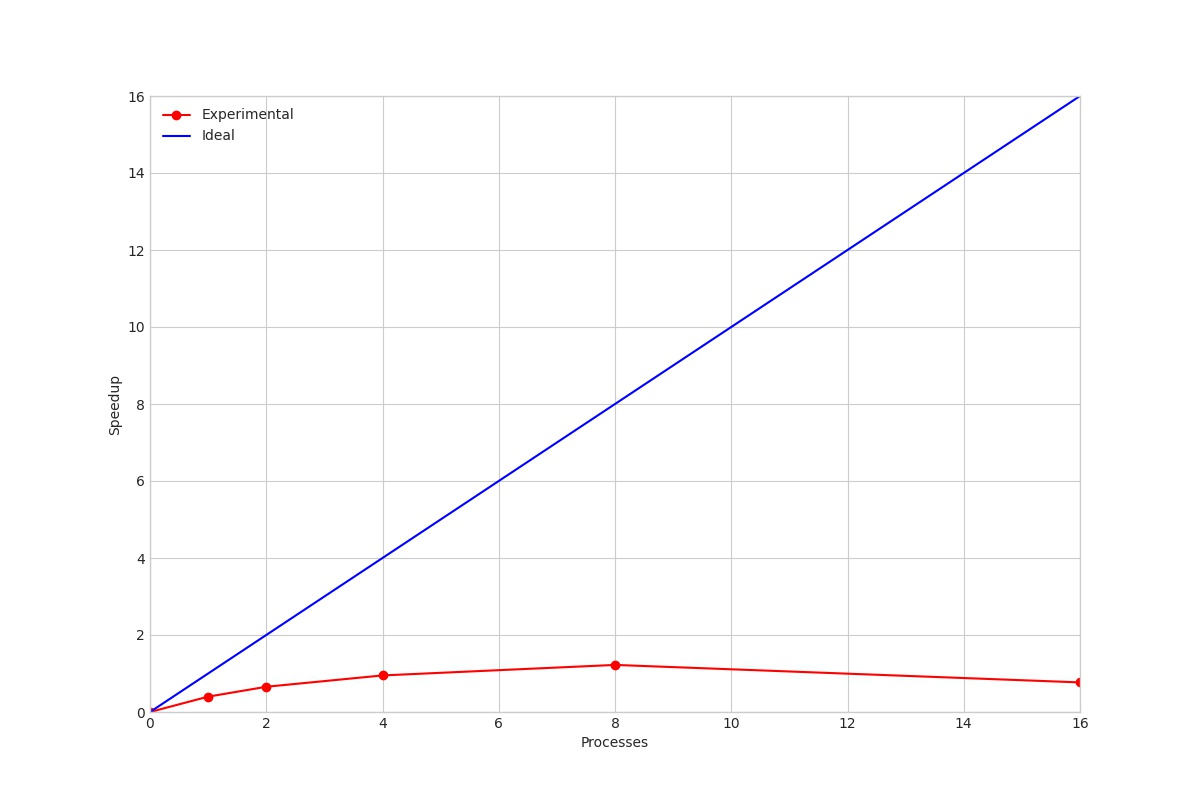
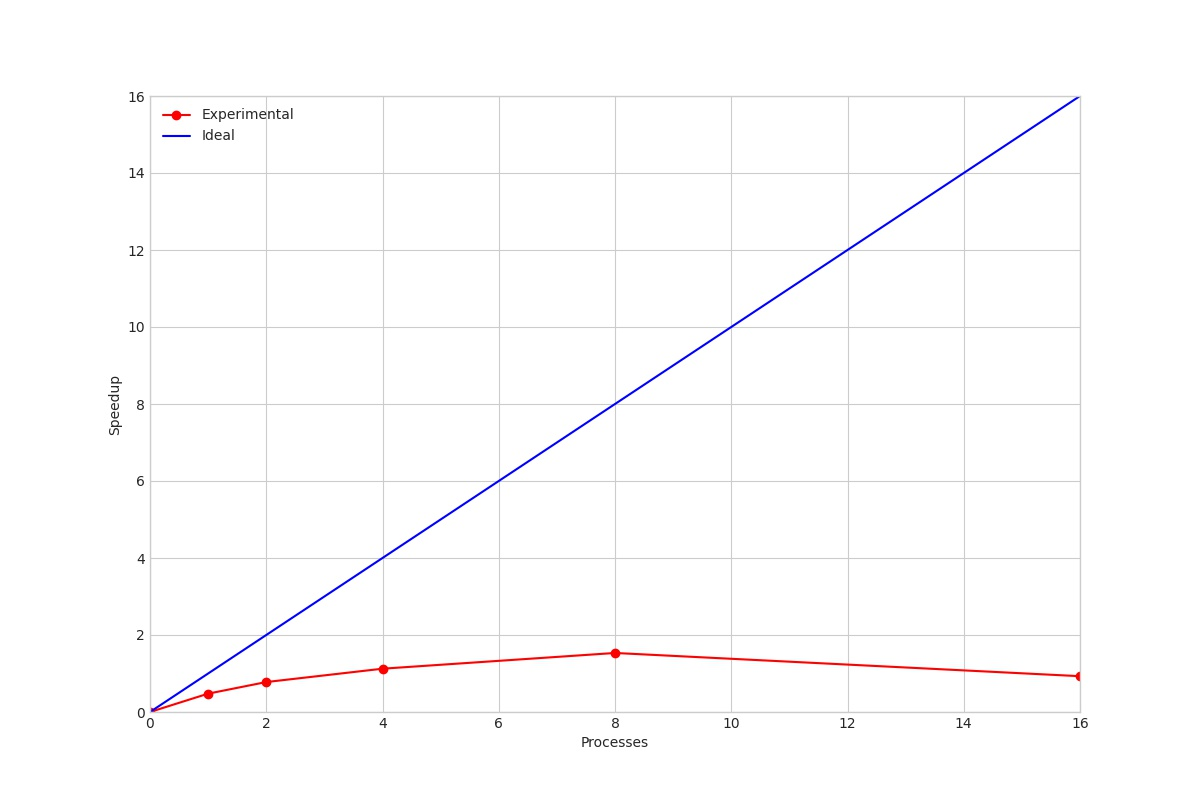
[EXTRACT] Seq has write and read now, Next measures no seq gcc opt

Changed region(s): [[0.1542, 0.8125, 0.8942, 0.875], [0.1233, 0.875, 0.1542, 0.9062]]

diff --git a/CommonAssignmentMPI01/src/main.c b/CommonAssignmentMPI01/src/main.c
@@ -121,6 +121,8 @@ int main ( int argc, char *argv[] ){
 
 	// --------------- DOT PROD ---------------
 
+	
+
 #if VERSION == 6
 	
 	double *c = (double*) malloc(sizeof(double) * chunk_size_A_rows);
@@ -145,13 +147,12 @@ int main ( int argc, char *argv[] ){
 			//ha chunk + grande
 		}
 	}
-	double dot_prod_end_time = MPI_Wtime();
 
 	MPI_Type_free(&dt_transpose_b);
 #else
 	double *c = (double*) malloc(sizeof(double) * chunk_size_A_rows * n_columns_B);
 
-	double dot_prod_start_time = MPI_Wtime();
+	double dot_prod_start_time = MPI_Wtime();	
 	matrix_dot_matrix(a, b, c, chunk_size_A_rows, n_columns_A, n_rows_B, n_columns_B);
 	double dot_prod_end_time = MPI_Wtime();
 
@@ -170,17 +171,20 @@ int main ( int argc, char *argv[] ){
 	
 	double read_time = read_end_time - read_start_time;
 	double dot_prod_time = dot_prod_end_time - dot_prod_start_time;
+
 #if VERSION == 6
 	double write_time = 0;
 #else
 	double write_time = write_end_time - write_start_time;
 #endif
+
 	double global_read_time, global_dot_prod_time, global_write_time;
 	MPI_Reduce(&read_time,&global_read_time,1,MPI_DOUBLE,MPI_MAX,0,MPI_COMM_WORLD);
 	MPI_Reduce(&dot_prod_time,&global_dot_prod_time,1,MPI_DOUBLE,MPI_MAX,0,MPI_COMM_WORLD);
 	MPI_Reduce(&write_time,&global_write_time,1,MPI_DOUBLE,MPI_MAX,0,MPI_COMM_WORLD);
+
 	double global_elapsed = global_read_time + global_dot_prod_time + global_write_time;
-	if(rank == 0) printf("%d,%d,%d,%d,%.3f,%.3f,%.3f,%.3f\n",n_rows_A,n_columns_A,n_columns_B,size,global_read_time,global_dot_prod_time,global_write_time,global_elapsed);	
+	if(rank == 0) printf("%d,%d,%d,%d,%.3f,%.3f,%.3f,%.3f\n",n_rows_A, n_columns_A, n_columns_B, size, global_read_time, global_dot_prod_time, global_write_time, global_elapsed);	
 
 	free(c);
 	free(a);

diff --git a/CommonAssignmentMPI01/measures/extract.py b/CommonAssignmentMPI01/measures/extract.py
@@ -48,7 +48,7 @@ config = {
 
 					'jpg':False,
 					'computeSpeedup':False,
-					"skipForFile" : 'SIZE-[0-9]+-NP-00-V[0-5]-?[0-9]*'
+					#"skipForFile" : 'SIZE-[0-9]+-NP-00-V[0-5]-?[0-9]*'
 
 				},
 				'dotprod':{
@@ -61,7 +61,7 @@ config = {
 
 					'jpg':False,
 					'computeSpeedup':False,
-					"skipForFile" : 'SIZE-[0-9]+-(NP-00-V[0-5]|NP-[0-9]+-V6)-?[0-9]*' #skip for sequential and for V6 files
+					"skipForFile" : 'SIZE-[0-9]+-NP-[0-9]+-V6-?[0-9]*' #skip for V6 files
 
 				},
 				'elapsed':{
